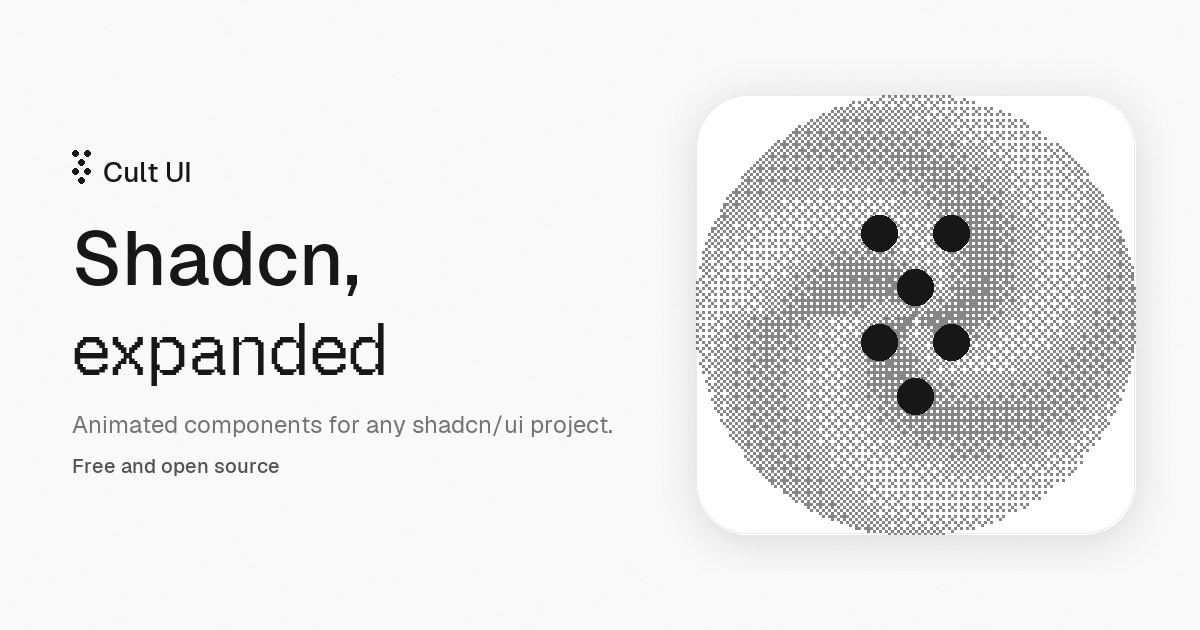
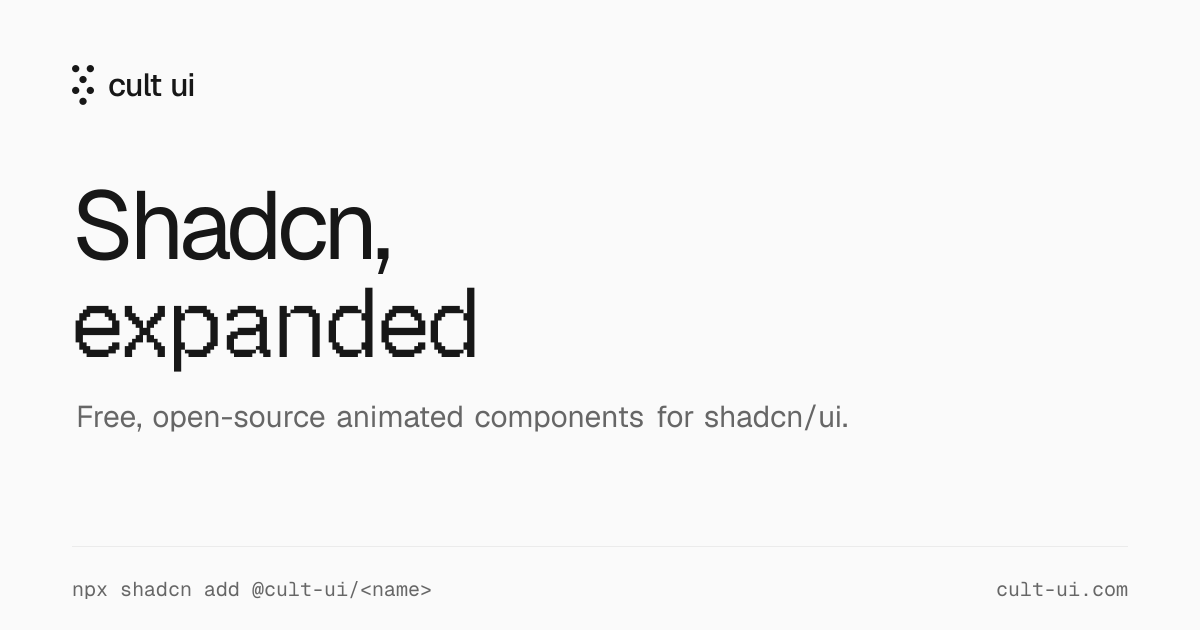
chore: update readme

diff --git a/README.md b/README.md
@@ -1,65 +1,202 @@
-# cult/ui
+<a href="https://www.cult-ui.com">
+  <img src="apps/www/public/og.png" alt="Cult UI: Shadcn, expanded. Free, open-source animated components for shadcn/ui." width="100%">
+</a>
 
-Accessible and customizable components that you can copy and paste into your apps. Free. Open Source. **Use this to build your own component library**.
+# Cult UI
 
-![hero](apps/www/public/og.png)
+**150+ animated components, all free.** Including 58 just added. Open source, built to drop into any shadcn/ui project.
 
-137 animated components for shadcn/ui, including 58 just added. MIT licensed, installed with one command:
+[Browse components](https://www.cult-ui.com/docs/components/dynamic-island) · [Docs](https://www.cult-ui.com/docs) · [Installation](https://www.cult-ui.com/docs/installation) · [Changelog](https://www.cult-ui.com/docs/changelog)
+
+## Install
+
+Every component is a shadcn/ui registry item. The CLI copies the source into your project, so you own the code.
 
 ```bash
-npx shadcn@latest add https://cult-ui.com/r/shift-card.json
+npx shadcn@latest add https://www.cult-ui.com/r/shift-card.json
 ```
 
-> **[Browse all components](https://cult-ui.com/docs/components/hero-color-panels)**
+Or register the namespace once in `components.json` and install by name:
 
----
+```json
+{
+  "registries": {
+    "@cult-ui": "https://www.cult-ui.com/r/{name}.json"
+  }
+}
+```
 
-## AI SDK AGENTS
+```bash
+npx shadcn@latest add @cult-ui/shift-card
+```
 
-### 100+ AI Agent Patterns
+Components use Tailwind CSS v4 and shadcn theme tokens, and most animate with [Motion](https://motion.dev). Each docs page lists its dependencies.
 
-Full-stack AI apps built with Cult UI. Live interactive previews. Copy and paste what you need. Install with shadcn, download as a Next.js app, or open in v0.
+## Just added
 
-#### Featured Patterns
+**58 new components.** Illustrations, device mockups, cards and more, with the same docs and one-line install as the rest of Cult UI.
 
-| Preview | Pattern | Description |
-| --- | --- | --- |
-| <img src="apps/www/public/migrate/blocks/example-agent-competitor-light.png" alt="Competitor Research Agent" width="200"> | [Competitor Research Agent](https://aisdkagents.com/directory/examples/research-agents/example-agent-competitor?utm_source=cult-ui&utm_medium=github&utm_content=readme-example-agent-competitor) | Enter a competitor URL for comprehensive competitive intelligence. Uses Firecrawl Map + Parallel Scrape for fast extraction. Analyzes positioning, pricing, features, tech stack, and generates sales battle cards. |
-| <img src="apps/www/public/migrate/blocks/example-agent-data-analysis-light.png" alt="Data Analysis Agent" width="200"> | [Data Analysis Agent](https://aisdkagents.com/directory/examples/analytics-agents/example-agent-data-analysis?utm_source=cult-ui&utm_medium=github&utm_content=readme-example-agent-data-analysis) | Upload CSV or JSON data and get AI-powered analysis with interactive visualizations. Detect patterns, correlations, outliers, and generate insights with confidence scores. |
-| <img src="apps/www/public/migrate/blocks/example-agent-a11y-audit-light.png" alt="Accessibility Audit Agent" width="200"> | [Accessibility Audit Agent](https://aisdkagents.com/directory/examples/audit-agents/example-agent-a11y-audit?utm_source=cult-ui&utm_medium=github&utm_content=readme-example-agent-a11y-audit) | Audit any website for WCAG 2.1 accessibility compliance using Firecrawl, then use AI tools to analyze issues by severity, check color contrast, validate heading structure, and generate alt text. |
-| <img src="apps/www/public/migrate/blocks/ai-artifact-table-light.png" alt="Table Editor Artifact" width="200"> | [Table Editor Artifact](https://aisdkagents.com/directory/artifacts/interactive-artifacts/ai-artifact-table?utm_source=cult-ui&utm_medium=github&utm_content=readme-ai-artifact-table) | Spreadsheet editor with AI chat for data analysis and manipulation. Edit tables through conversation. |
-| <img src="apps/www/public/migrate/blocks/example-agent-branding-light.png" alt="Branding Agent" width="200"> | [Branding Agent](https://aisdkagents.com/directory/examples/design-agents/example-agent-branding?utm_source=cult-ui&utm_medium=github&utm_content=readme-example-agent-branding) | Extract brand design systems from any website using Firecrawl, then use AI tools to export tokens, generate color palettes, check accessibility, and analyze brand personality. |
-| <img src="apps/www/public/migrate/blocks/ai-artifact-chart-light.png" alt="Chart Generation Artifact" width="200"> | [Chart Generation Artifact](https://aisdkagents.com/directory/artifacts/static-artifacts/ai-artifact-chart?utm_source=cult-ui&utm_medium=github&utm_content=readme-ai-artifact-chart) | Generate burn rate charts and financial analysis through AI chat. Creates interactive visualizations from conversation. |
+<table>
+  <tr>
+    <td width="33%">
+      <a href="https://www.cult-ui.com/docs/components/globe">
+        <picture>
+          <source media="(prefers-color-scheme: dark)" srcset="https://raw.githubusercontent.com/nolly-studio/cult-ui/main/apps/www/public/cult-pro-component-images/globe-demo-dark.png">
+          <img src="https://raw.githubusercontent.com/nolly-studio/cult-ui/main/apps/www/public/cult-pro-component-images/globe-demo-light.png" alt="Globe component preview">
+        </picture>
+      </a>
+      <br><a href="https://www.cult-ui.com/docs/components/globe">Globe</a>
+    </td>
+    <td width="33%">
+      <a href="https://www.cult-ui.com/docs/components/kanban-board">
+        <picture>
+          <source media="(prefers-color-scheme: dark)" srcset="https://raw.githubusercontent.com/nolly-studio/cult-ui/main/apps/www/public/cult-pro-component-images/kanban-board-demo-dark.png">
+          <img src="https://raw.githubusercontent.com/nolly-studio/cult-ui/main/apps/www/public/cult-pro-component-images/kanban-board-demo-light.png" alt="Kanban board component preview">
+        </picture>
+      </a>
+      <br><a href="https://www.cult-ui.com/docs/components/kanban-board">Kanban board</a>
+    </td>
+    <td width="33%">
+      <a href="https://www.cult-ui.com/docs/components/fluted-glass">
+        <picture>
+          <source media="(prefers-color-scheme: dark)" srcset="https://raw.githubusercontent.com/nolly-studio/cult-ui/main/apps/www/public/cult-pro-component-images/fluted-glass-demo-dark.png">
+          <img src="https://raw.githubusercontent.com/nolly-studio/cult-ui/main/apps/www/public/cult-pro-component-images/fluted-glass-demo-light.png" alt="Fluted glass component preview">
+        </picture>
+      </a>
+      <br><a href="https://www.cult-ui.com/docs/components/fluted-glass">Fluted glass</a>
+    </td>
+  </tr>
+  <tr>
+    <td width="33%">
+      <a href="https://www.cult-ui.com/docs/components/mac-screen">
+        <picture>
+          <source media="(prefers-color-scheme: dark)" srcset="https://raw.githubusercontent.com/nolly-studio/cult-ui/main/apps/www/public/cult-pro-component-images/mac-screen-demo-dark.png">
+          <img src="https://raw.githubusercontent.com/nolly-studio/cult-ui/main/apps/www/public/cult-pro-component-images/mac-screen-demo-light.png" alt="Mac screen component preview">
+        </picture>
+      </a>
+      <br><a href="https://www.cult-ui.com/docs/components/mac-screen">Mac screen</a>
+    </td>
+    <td width="33%">
+      <a href="https://www.cult-ui.com/docs/components/analytics-chart">
+        <picture>
+          <source media="(prefers-color-scheme: dark)" srcset="https://raw.githubusercontent.com/nolly-studio/cult-ui/main/apps/www/public/cult-pro-component-images/analytics-chart-demo-dark.png">
+          <img src="https://raw.githubusercontent.com/nolly-studio/cult-ui/main/apps/www/public/cult-pro-component-images/analytics-chart-demo-light.png" alt="Analytics chart component preview">
+        </picture>
+      </a>
+      <br><a href="https://www.cult-ui.com/docs/components/analytics-chart">Analytics chart</a>
+    </td>
+    <td width="33%">
+      <a href="https://www.cult-ui.com/docs/components/folded-card">
+        <picture>
+          <source media="(prefers-color-scheme: dark)" srcset="https://raw.githubusercontent.com/nolly-studio/cult-ui/main/apps/www/public/cult-pro-component-images/folded-card-demo-dark.png">
+          <img src="https://raw.githubusercontent.com/nolly-studio/cult-ui/main/apps/www/public/cult-pro-component-images/folded-card-demo-light.png" alt="Folded card component preview">
+        </picture>
+      </a>
+      <br><a href="https://www.cult-ui.com/docs/components/folded-card">Folded card</a>
+    </td>
+  </tr>
+</table>
 
-#### 4 Full-Stack Agent Templates
+[Browse all components →](https://www.cult-ui.com/docs/components/dynamic-island)
 
-| Preview | Template | Description | Stack |
-| --- | --- | --- | --- |
-| <img src="apps/www/public/migrate/templates/ecommerce-sub-agent-template/ecommerce-1.png" alt="Ecommerce Multi-Agent" width="200"> | [Ecommerce Multi-Agent](https://aisdkagents.com/templates/ecommerce-sub-agent-template?utm_source=cult-ui&utm_medium=github&utm_content=readme-ecommerce-sub-agent-template) | Full-featured ecommerce AI assistant with multi-agent orchestration, product browsing, shopping cart management, and real-time artifact streaming. | `nextjs` `ai-sdk-tools` `typescript` `tailwind` `zustand` `framer-motion` |
-| <img src="apps/www/public/migrate/templates/ai-sdk-better-auth-postgres-agent-config/agent-config-template-10.png" alt="AI SDK Agent Platform" width="200"> | [AI SDK Agent Platform](https://aisdkagents.com/templates/ai-agent-platform?utm_source=cult-ui&utm_medium=github&utm_content=readme-ai-agent-platform) | Build and deploy RAG agents: create, configure, and deploy AI agents with custom knowledge bases. Upload documents, scrape websites, and build vector embeddings with pgvector. | `nextjs` `workflow dev kit` `better-auth` `drizzle` `postgresql` `stripe` |
-| <img src="apps/www/public/migrate/templates/ai-sdk-tools-sub-agent-starter/sub-agent-1.png" alt="Sub Agent Starter" width="200"> | [Sub Agent Starter](https://aisdkagents.com/templates/sub-agent-starter?utm_source=cult-ui&utm_medium=github&utm_content=readme-sub-agent-starter) | Hyper minimal sub agent template featuring multi-agent orchestration, tool usage, and artifact streaming with AI SDK Tools. | `nextjs` `ai-sdk-tools` `typescript` `tailwind` `shadcn` |
-| <img src="apps/www/public/migrate/templates/ai-sdk-better-auth-postgres/better-auth-6.png" alt="Multi Tenant Better Auth Chat" width="200"> | [Multi Tenant Better Auth Chat](https://aisdkagents.com/templates/better-auth-postgres?utm_source=cult-ui&utm_medium=github&utm_content=readme-better-auth-postgres) | Full-featured ChatGPT-style SaaS chat app with multi-tenant organizations, team roles, artifact management, resumable streaming, and persistent conversation history. | `nextjs` `tailwind` `stripe` `drizzle` `resend` `better-auth` |
+## Built with Cult UI
 
-> **[Browse 100+ patterns](https://aisdkagents.com/directory?utm_source=cult-ui&utm_medium=github&utm_content=readme-directory)**
+**The components are free. The full-stack AI apps built from them are [AI SDK Agents](https://aisdkagents.com/?utm_source=cult-ui&utm_medium=github&utm_content=readme-section-link).** Agent patterns on the Vercel AI SDK with live previews. Install with shadcn, download a Next.js app, or open in v0.
 
----
+<table>
+  <tr>
+    <td width="33%" valign="top">
+      <a href="https://aisdkagents.com/patterns/example-agent-competitor?utm_source=cult-ui&utm_medium=github&utm_content=readme-pattern-card">
+        <picture>
+          <source media="(prefers-color-scheme: dark)" srcset="https://raw.githubusercontent.com/nolly-studio/cult-ui/main/apps/www/public/migrate/blocks/example-agent-competitor-dark.png">
+          <img src="https://raw.githubusercontent.com/nolly-studio/cult-ui/main/apps/www/public/migrate/blocks/example-agent-competitor-light.png" alt="Competitor research agent preview">
+        </picture>
+      </a>
+      <br><a href="https://aisdkagents.com/patterns/example-agent-competitor?utm_source=cult-ui&utm_medium=github&utm_content=readme-pattern-card"><b>Competitor research agent</b></a>
+      <br><sub>Paste a competitor URL, get positioning, pricing and a sales battle card.</sub>
+    </td>
+    <td width="33%" valign="top">
+      <a href="https://aisdkagents.com/patterns/example-agent-data-analysis?utm_source=cult-ui&utm_medium=github&utm_content=readme-pattern-card">
+        <picture>
+          <source media="(prefers-color-scheme: dark)" srcset="https://raw.githubusercontent.com/nolly-studio/cult-ui/main/apps/www/public/migrate/blocks/example-agent-data-analysis-dark.png">
+          <img src="https://raw.githubusercontent.com/nolly-studio/cult-ui/main/apps/www/public/migrate/blocks/example-agent-data-analysis-light.png" alt="Data analysis agent preview">
+        </picture>
+      </a>
+      <br><a href="https://aisdkagents.com/patterns/example-agent-data-analysis?utm_source=cult-ui&utm_medium=github&utm_content=readme-pattern-card"><b>Data analysis agent</b></a>
+      <br><sub>Upload CSV or JSON, get charts, outliers and insights with confidence scores.</sub>
+    </td>
+    <td width="33%" valign="top">
+      <a href="https://aisdkagents.com/patterns/example-agent-a11y-audit?utm_source=cult-ui&utm_medium=github&utm_content=readme-pattern-card">
+        <picture>
+          <source media="(prefers-color-scheme: dark)" srcset="https://raw.githubusercontent.com/nolly-studio/cult-ui/main/apps/www/public/migrate/blocks/example-agent-a11y-audit-dark.png">
+          <img src="https://raw.githubusercontent.com/nolly-studio/cult-ui/main/apps/www/public/migrate/blocks/example-agent-a11y-audit-light.png" alt="Accessibility audit agent preview">
+        </picture>
+      </a>
+      <br><a href="https://aisdkagents.com/patterns/example-agent-a11y-audit?utm_source=cult-ui&utm_medium=github&utm_content=readme-pattern-card"><b>Accessibility audit agent</b></a>
+      <br><sub>A WCAG 2.1 audit of any site, with a prioritized fix plan.</sub>
+    </td>
+  </tr>
+  <tr>
+    <td width="33%" valign="top">
+      <a href="https://aisdkagents.com/patterns/ai-artifact-table?utm_source=cult-ui&utm_medium=github&utm_content=readme-pattern-card">
+        <picture>
+          <source media="(prefers-color-scheme: dark)" srcset="https://raw.githubusercontent.com/nolly-studio/cult-ui/main/apps/www/public/migrate/blocks/ai-artifact-table-dark.png">
+          <img src="https://raw.githubusercontent.com/nolly-studio/cult-ui/main/apps/www/public/migrate/blocks/ai-artifact-table-light.png" alt="Table editor artifact preview">
+        </picture>
+      </a>
+      <br><a href="https://aisdkagents.com/patterns/ai-artifact-table?utm_source=cult-ui&utm_medium=github&utm_content=readme-pattern-card"><b>Table editor artifact</b></a>
+      <br><sub>A spreadsheet you edit by chatting with it.</sub>
+    </td>
+    <td width="33%" valign="top">
+      <a href="https://aisdkagents.com/patterns/example-agent-branding?utm_source=cult-ui&utm_medium=github&utm_content=readme-pattern-card">
+        <picture>
+          <source media="(prefers-color-scheme: dark)" srcset="https://raw.githubusercontent.com/nolly-studio/cult-ui/main/apps/www/public/migrate/blocks/example-agent-branding-dark.png">
+          <img src="https://raw.githubusercontent.com/nolly-studio/cult-ui/main/apps/www/public/migrate/blocks/example-agent-branding-light.png" alt="Branding agent preview">
+        </picture>
+      </a>
+      <br><a href="https://aisdkagents.com/patterns/example-agent-branding?utm_source=cult-ui&utm_medium=github&utm_content=readme-pattern-card"><b>Branding agent</b></a>
+      <br><sub>Extract any site's design system: tokens, palette and brand personality.</sub>
+    </td>
+    <td width="33%" valign="top">
+      <a href="https://aisdkagents.com/patterns/ai-artifact-chart?utm_source=cult-ui&utm_medium=github&utm_content=readme-pattern-card">
+        <picture>
+          <source media="(prefers-color-scheme: dark)" srcset="https://raw.githubusercontent.com/nolly-studio/cult-ui/main/apps/www/public/migrate/blocks/ai-artifact-chart-dark.png">
+          <img src="https://raw.githubusercontent.com/nolly-studio/cult-ui/main/apps/www/public/migrate/blocks/ai-artifact-chart-light.png" alt="Chart generation artifact preview">
+        </picture>
+      </a>
+      <br><a href="https://aisdkagents.com/patterns/ai-artifact-chart?utm_source=cult-ui&utm_medium=github&utm_content=readme-pattern-card"><b>Chart generation artifact</b></a>
+      <br><sub>Burn rate charts and financial analysis from a conversation.</sub>
+    </td>
+  </tr>
+</table>
 
-## ADDITIONAL GOODS
+[Browse 100+ patterns →](https://aisdkagents.com/directory?utm_source=cult-ui&utm_medium=github&utm_content=readme-directory)
 
-- **[Free AI Marketing](https://www.newcopy.ai)** -- An AI Cofounder that knows your brand. Start creating marketing copy that converts.
-- **[Free SEO Improvement Tool](https://cleanmyseo.com)** -- Quickly evaluate your website's SEO performance for free. Open graph preview included.
-- **[Full Stack Shadcn Templates](https://www.newcult.co)** -- Comprehensive Next.js + Supabase templates built with Tailwind CSS, Cult components, and shadcn.
+## For AI agents
 
----
+The docs are written to be read by coding agents as well as people.
 
-## Documentation
+- [`llms.txt`](https://www.cult-ui.com/llms.txt) indexes every page, and [`llms-full.txt`](https://www.cult-ui.com/llms-full.txt) has the full docs in one file.
+- Add `.md` to any docs URL for clean markdown, for example [`/docs/components/dock.md`](https://www.cult-ui.com/docs/components/dock.md).
+- The [shadcn MCP server](https://www.cult-ui.com/docs/mcp-server) lets Cursor, Claude Code and VS Code search and install Cult UI components from a prompt.
 
-Visit https://cult-ui.com/docs to view the documentation.
+## Cult UI stays free
+
+**MIT licensed and maintained full time.** AI SDK Agents is what pays for it. If you ship AI features, it is the best way to keep this library going. Or [star it on GitHub](https://github.com/nolly-studio/cult-ui).
+
+More from the studio:
+
+- [AI SDK Agents](https://aisdkagents.com/?utm_source=cult-ui&utm_medium=github&utm_content=readme-studio) – 100+ Vercel AI SDK agent patterns with live previews and full-stack templates.
+- [Newcopy](https://www.newcopy.ai) – An AI cofounder that knows your brand. Marketing copy that converts.
+- [Best Models](https://www.bestmodels.dev/) – Independent ranking of the best models on Vercel AI Gateway, updated daily.
+- [Eve Directory](https://www.evedirectory.com/) – The open registry for Eve agents. Inspect every file before you install.
+
+Need a team? [Nolly Studio](https://www.nolly.studio/) is an AI-native product studio: agent systems and design-engineered UI, shipped in weeks.
 
 ## Contributing
 
-Please read the [contributing guide](/CONTRIBUTING.md).
+Read the [contributing guide](CONTRIBUTING.md) to get the repo running locally and add a component.
 
 ## License
 
-Licensed under the [MIT license](https://github.com/Jordan-Gilliam/ui/blob/main/LICENSE.md).
+[MIT](LICENSE.md) © Nolly Studio. Made by [@nolansym](https://x.com/nolansym).
